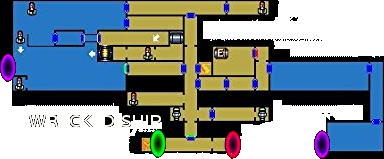
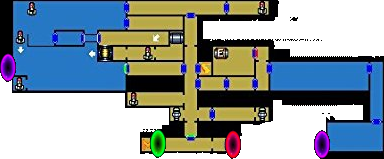
names are now moveable

Changed region(s): [[0.0312, 0.5786, 0.4375, 0.9811]]

diff --git a/client/src/views/Tracker/AreaOverlay.vue b/client/src/views/Tracker/AreaOverlay.vue
@@ -1,26 +1,45 @@
 <template>
   <div :style="style.wrapper" class="area-overlay">
-    <unrest-draggable
-      v-if="is_moveable"
-      @drag="drag"
-      @dragend="dragend"
-      class="fa fa-arrows area-overlay__move"
-    />
+    <div class="area-overlay__title" :style="style.title">
+      <drag-anchor
+        v-if="moving_area"
+        v-model="dxys.__root"
+        :osd_store="osd_store"
+        @done="moveArea"
+      />
+      <drag-anchor
+        v-if="moving_title"
+        v-model="dxys.__title"
+        :osd_store="osd_store"
+        @done="moveTitle"
+      />
+      {{ area.name }}
+    </div>
     <img :src="src" :style="style.img" class="area-overlay__img" />
     <div
       v-for="entity in entities"
       v-bind="entity"
       :key="entity.id"
       @click="(e) => clickEntity(e, entity)"
-    />
+    >
+      <drag-anchor
+        v-if="moving_items"
+        v-model="dxys[entity.id]"
+        :osd_store="osd_store"
+        @done="(xy) => moveEntity(entity, xy)"
+      />
+    </div>
   </div>
 </template>
 
 <script>
+import DragAnchor from './DragAnchor.vue'
+
 import { getStaticUrl } from '@/utils'
 const size = 13.5 // size of anchor box. All internal sizings are a multiple of this
 
 export default {
+  components: { DragAnchor },
   props: {
     area: Object,
     parent: Object,
@@ -30,7 +49,7 @@ export default {
   },
   emits: ['move-area'],
   data() {
-    return { dx: 0, dy: 0 }
+    return { dxys: {} }
   },
   computed: {
     src() {
@@ -39,7 +58,8 @@ export default {
     style() {
       const invert = !!this.$route.query.debug
       const { width, x = 0, y = 0 } = this.area
-      const { dx, dy } = this
+      const [title_x, title_y] = this.area.title_dxy || [0, 0]
+      const [dx, dy] = this.dxys.__root || [0, 0]
       const _ = (a, b) => `${(100 * a) / b}%`
       return {
         wrapper: {
@@ -54,34 +74,32 @@ export default {
           opacity: invert ? 0.5 : null,
           filter: invert ? 'invert(1)' : null,
         },
+        title: this.getEntityStyle('__title', title_x, title_y),
       }
     },
-    is_moveable() {
+    moving_area() {
       const { tool } = this.tool_storage.state.selected
-      return ['admin_move_area'].includes(tool)
+      return 'admin_move_area' === tool
+    },
+    moving_items() {
+      const { tool } = this.tool_storage.state.selected
+      return 'admin_move_item' === tool
+    },
+    moving_title() {
+      const { tool } = this.tool_storage.state.selected
+      return 'admin_move_title' === tool
     },
     warps() {
-      const { tool } = this.tool_storage.state.selected
       const { selected_warp } = this.tool_storage.state
-      if (!['admin_move_item', 'play'].includes(tool)) {
-        return []
-      }
       return this.area.warps.map(({ slug, name, x, y, type, rotated }) => ({
         id: slug,
         title: name,
         class: [`area-warp -${type}`, rotated && '-rotated', selected_warp === slug && '-selected'],
         type: 'warp',
-        style: {
-          left: `${(100 * x) / size}%`,
-          top: `${(100 * y) / size}%`,
-        },
+        style: this.getEntityStyle(slug, x, y),
       }))
     },
     items() {
-      const { tool } = this.tool_storage.state.selected
-      if (!['admin_move_item', 'play'].includes(tool)) {
-        return []
-      }
       const { split } = this.tool_storage.state
       let items = this.area.items
       if (['major', 'chozo', 'scavenger'].includes(split)) {
@@ -99,33 +117,29 @@ export default {
           scavenger && '-scavenger',
           this.game_state.items[slug] && '-completed',
         ],
-        style: {
-          left: `${(100 * x) / size}%`,
-          top: `${(100 * y) / size}%`,
-        },
+        style: this.getEntityStyle(slug, x, y),
       }))
     },
     entities() {
-      return [...this.warps, ...this.items]
+      return this.moving_area || this.moving_title ? [] : [...this.warps, ...this.items]
     },
   },
   methods: {
-    drag(e) {
-      const [x0, y0] = e._drag.xy_start
-      const [x1, y1] = e._drag.xy
-      const zoom = this.osd_store.viewer.viewport.getZoom()
-      this.dx = (x1 - x0) / zoom
-      this.dy = (y1 - y0) / zoom
-    },
-    dragend() {
-      const { tool } = this.tool_storage.state.selected
-      const { dx, dy } = this
-      if (tool === 'admin_move_area') {
-        this.$emit('move-area', { dx, dy })
-      } else {
-        console.warn('TODO: moving marker should add an override to moving the area')
+    getEntityStyle(id, x, y) {
+      const [dx, dy] = this.dxys[id] || [0, 0]
+      return {
+        left: `${(100 * (x + dx)) / size}%`,
+        top: `${(100 * (y + dy)) / size}%`,
       }
-      this.dx = this.dy = 0
+    },
+    moveEntity({ id, type }, [dx, dy]) {
+      this.$store.layout.moveEntity({ id, type }, dx, dy)
+    },
+    moveArea([dx, dy]) {
+      this.$store.layout.moveArea(this.area.slug, dx, dy)
+    },
+    moveTitle([dx, dy]) {
+      this.$store.layout.moveTitle(this.area.slug, dx, dy)
     },
     clickEntity(e, { id, type }) {
       const { tool } = this.tool_storage.state.selected

diff --git a/client/src/layouts/index.js b/client/src/layouts/index.js
@@ -5,7 +5,26 @@ import legacy from './legacy'
 
 const rotated_door_regexp = /(Top|Bottom|redBrinstarElevator)$/
 
-const parseName = memoize((name) => {
+const SHORT_NAMES = {
+  'green-brinstar': 'Gr Brin',
+  'red-brinstar': 'Red Brin',
+  crocomire: 'Croc',
+  ridley: 'R',
+  phantoon: 'P',
+  draygon: 'D',
+  kraid: 'K',
+  'kraids-lair': 'Kraid',
+  'east-maridia': 'E Marid',
+  'west-maridia': 'W Marid',
+  'wrecked-ship': 'W Ship',
+  'upper-norfair': 'Up No',
+  'lower-norfair': 'Lo No',
+}
+
+const prepName = memoize((name) => {
+  if (SHORT_NAMES[name]) {
+    return SHORT_NAMES[name]
+  }
   name = name.replace(
     /(super|missile|outside|yellow|middle|above|false|wall|tatori|turtle|shine|spark|bubble|door|surface|gauntlet|hunter|spike|side|hopper|moat|pink|green|sand|bottom|top|left|right|behind|reserve|tank|of|fire|flea)/g,
     (c) => ` ${c}`,
@@ -33,11 +52,11 @@ sand_doors.forEach((w) => {
 const prepArea = (area) => {
   area = cloneDeep(area)
   const isRotated = (slug) => slug.match(rotated_door_regexp)
-  area.name = startCase(area.slug)
+  area.name = prepName(area.slug)
 
   area.warps = area.warps.map(([slug, x, y]) => ({
     slug,
-    name: parseName(slug),
+    name: prepName(slug),
     x,
     y,
     rotated: isRotated(slug),
@@ -46,7 +65,7 @@ const prepArea = (area) => {
 
   area.items = area.items.map(([slug, x, y]) => ({
     slug,
-    name: parseName(slug),
+    name: prepName(slug),
     x,
     y,
     chozo: special_items.chozo[slug],
@@ -83,5 +102,14 @@ export default {
     }
     area.x += dx
     area.y += dy
+  },
+  moveTitle(layout_slug, area_slug, dx, dy) {
+    const area = this[layout_slug].areas.find((area) => area.slug === area_slug)
+    if (!area) {
+      throw `Unable to locate area: ${area_slug}`
+    }
+    area.title_dxy = area.title_dxy || [0, 0]
+    area.title_dxy[0] += dx
+    area.title_dxy[1] += dy
   },
 }

diff --git a/client/src/views/Tracker/DragAnchor.vue b/client/src/views/Tracker/DragAnchor.vue
@@ -1,0 +1,25 @@
+<template>
+  <unrest-draggable @drag="drag" @dragend="dragend" class="fa fa-arrows drag-anchor" />
+</template>
+
+<script>
+export default {
+  props: {
+    modelValue: Array,
+    osd_store: Object,
+  },
+  emits: ['update:modelValue', 'done'],
+  methods: {
+    drag(e) {
+      const [x0, y0] = e._drag.xy_start
+      const [x1, y1] = e._drag.xy
+      const zoom = this.osd_store.viewer.viewport.getZoom()
+      this.$emit('update:modelValue', [(x1 - x0) / zoom, (y1 - y0) / zoom])
+    },
+    dragend() {
+      this.$emit('done', this.modelValue)
+      this.$emit('update:modelValue', null)
+    },
+  },
+}
+</script>

diff --git a/client/src/views/Tracker/WarpConnections.vue b/client/src/views/Tracker/WarpConnections.vue
@@ -1,5 +1,5 @@
 <template>
-  <svg class="warp-connections" viewBox="0 0 1 1">
+  <svg class="warp-connections" viewBox="0 0 1 1" v-show="zshow">
     <line v-for="line in shapes.lines" :key="line.id" v-bind="line" />
     <circle v-for="circle in shapes.circles" :key="circle.id" v-bind="circle" />
   </svg>
@@ -33,6 +33,10 @@ export default {
     areas: Array,
   },
   computed: {
+    zshow() {
+      const { tool } = this.tool_storage.state.selected
+      return tool !== 'admin_move_item'
+    },
     warp_area_xys() {
       const out = {}
       this.areas.forEach((area) => {

diff --git a/client/src/css/index.css b/client/src/css/index.css
@@ -130,8 +130,13 @@ html, body, #app {
   img {
     @apply max-w-none pointer-events-none;
   }
-  &__move {
-    @apply absolute cursor-pointer text-white;
+  &__title {
+    @apply absolute text-white;
+    text-transform: uppercase;
+    white-space: nowrap;
+    .drag-anchor {
+      transform: translate(-100%, 0);
+    }
   }
 }
 
@@ -240,4 +245,9 @@ body {
   &____root {
     @apply border-0 block p-0;
   }
+}
+
+
+.drag-anchor {
+  @apply absolute cursor-pointer text-white;
 }

diff --git a/client/src/views/Tracker/ToolStorage.js b/client/src/views/Tracker/ToolStorage.js
@@ -37,7 +37,8 @@ export default (_component) => {
     if (true) {
       // if (component.$auth.user?.is_superuser) {
       tools.push({ slug: 'admin_move_area', icon: 'fa fa-arrows' })
-      tools.push({ slug: 'admin_move_item', icon: 'fa fa-step-forward' })
+      tools.push({ slug: 'admin_move_item', icon: 'fa fa-archive' })
+      tools.push({ slug: 'admin_move_title', icon: 'fa fa-i-cursor' })
     }
     return tools
   }

diff --git a/client/src/store/layout.js b/client/src/store/layout.js
@@ -30,6 +30,10 @@ export default () => {
     layouts.moveArea(storage.state.selected, area_slug, dx, dy)
     storage.markDirty()
   }
+  storage.moveTitle = (area_slug, dx, dy) => {
+    layouts.moveTitle(storage.state.selected, area_slug, dx, dy)
+    storage.markDirty()
+  }
   storage.saveAreas = () => {
     const { areas } = layouts[storage.state.selected]
     saveFile(JSON.stringify(areas, null, 2), 'areas.json')

diff --git a/client/src/views/Tracker/index.vue b/client/src/views/Tracker/index.vue
@@ -62,7 +62,7 @@ import osd from '@unrest/vue-openseadragon'
 import openseadragon from 'openseadragon'
 
 import { saveFile } from '@/data/legacy'
-import AreaOverlay from '@/components/AreaOverlay'
+import AreaOverlay from './AreaOverlay.vue'
 import ToolStorage from './ToolStorage'
 import WarpConnections from './WarpConnections.vue'
 import { getStaticUrl } from '@/utils'

diff --git a/client/src/views/Tracker/InitSolver.vue b/client/src/views/Tracker/InitSolver.vue
@@ -1,0 +1,7 @@
+<template>
+  <unrest-modal> </unrest-modal>
+</template>
+
+<script>
+export default {}
+</script>
